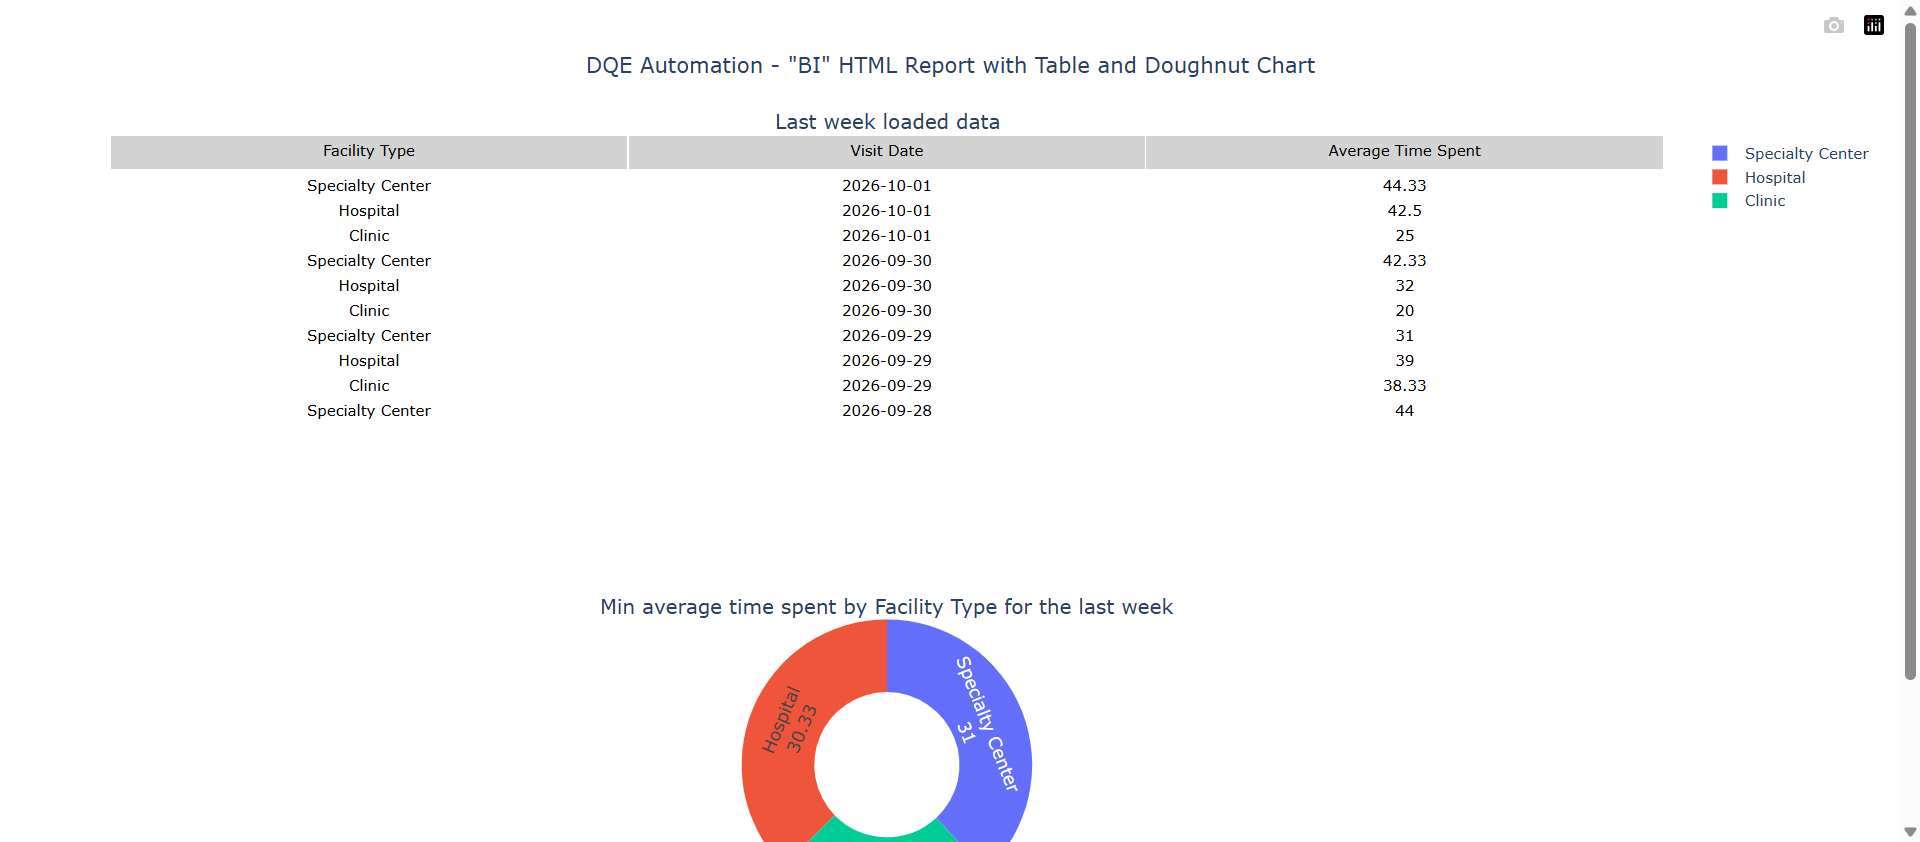
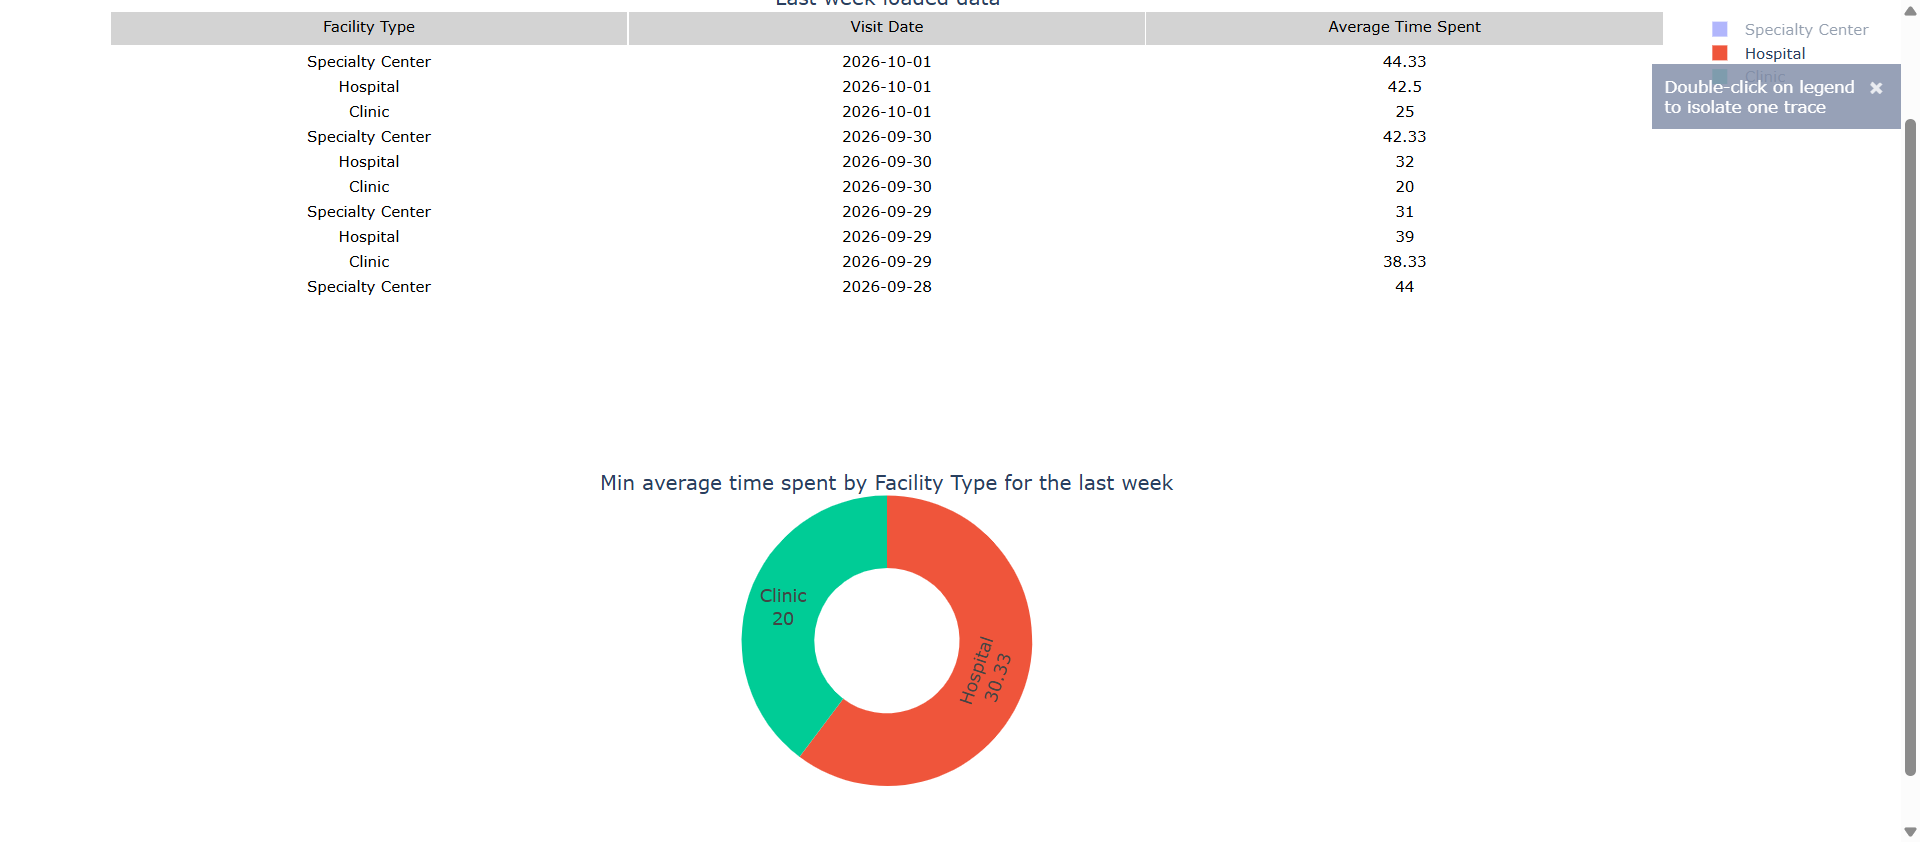
Fix doughnut legend click: use real ActionChains click instead of synthetic dispatchEvent

diff --git a/Selenium Introduction/main.py b/Selenium Introduction/main.py
@@ -7,6 +7,7 @@ from selenium.webdriver.chrome.webdriver import WebDriver
 from selenium.webdriver.chrome.service import Service
 from selenium.webdriver.chrome.options import Options
 from selenium.webdriver.common.by import By
+from selenium.webdriver.common.action_chains import ActionChains
 from selenium.webdriver.support.ui import WebDriverWait
 from selenium.webdriver.support import expected_conditions as EC
 from selenium.common.exceptions import TimeoutException, NoSuchElementException, StaleElementReferenceException
@@ -141,8 +142,13 @@ def run_doughnut_filters(driver: WebDriver) -> None:
             legend_items = get_legend_items(driver)
             item = legend_items[i]
             WebDriverWait(driver, 10).until(EC.element_to_be_clickable((By.CLASS_NAME, "traces")))
-            # JS click bypasses Plotly's transient "notifier-note" overlay intercepting the click
-            driver.execute_script("arguments[0].dispatchEvent(new MouseEvent('click', {bubbles: true}));", item)
+            # Wait out Plotly's transient "notifier-note" overlay so the real click isn't intercepted
+            try:
+                WebDriverWait(driver, 5).until(EC.invisibility_of_element_located((By.CLASS_NAME, "notifier-note")))
+            except TimeoutException:
+                pass
+            # Plotly's legend toggle only reacts to a real, trusted mouse click, not a dispatched/synthetic one
+            ActionChains(driver).move_to_element(item).click().perform()
             time.sleep(1)
 
             driver.save_screenshot(os.path.join(OUTPUT_DIR, f"screenshot{screenshot_index}.png"))
